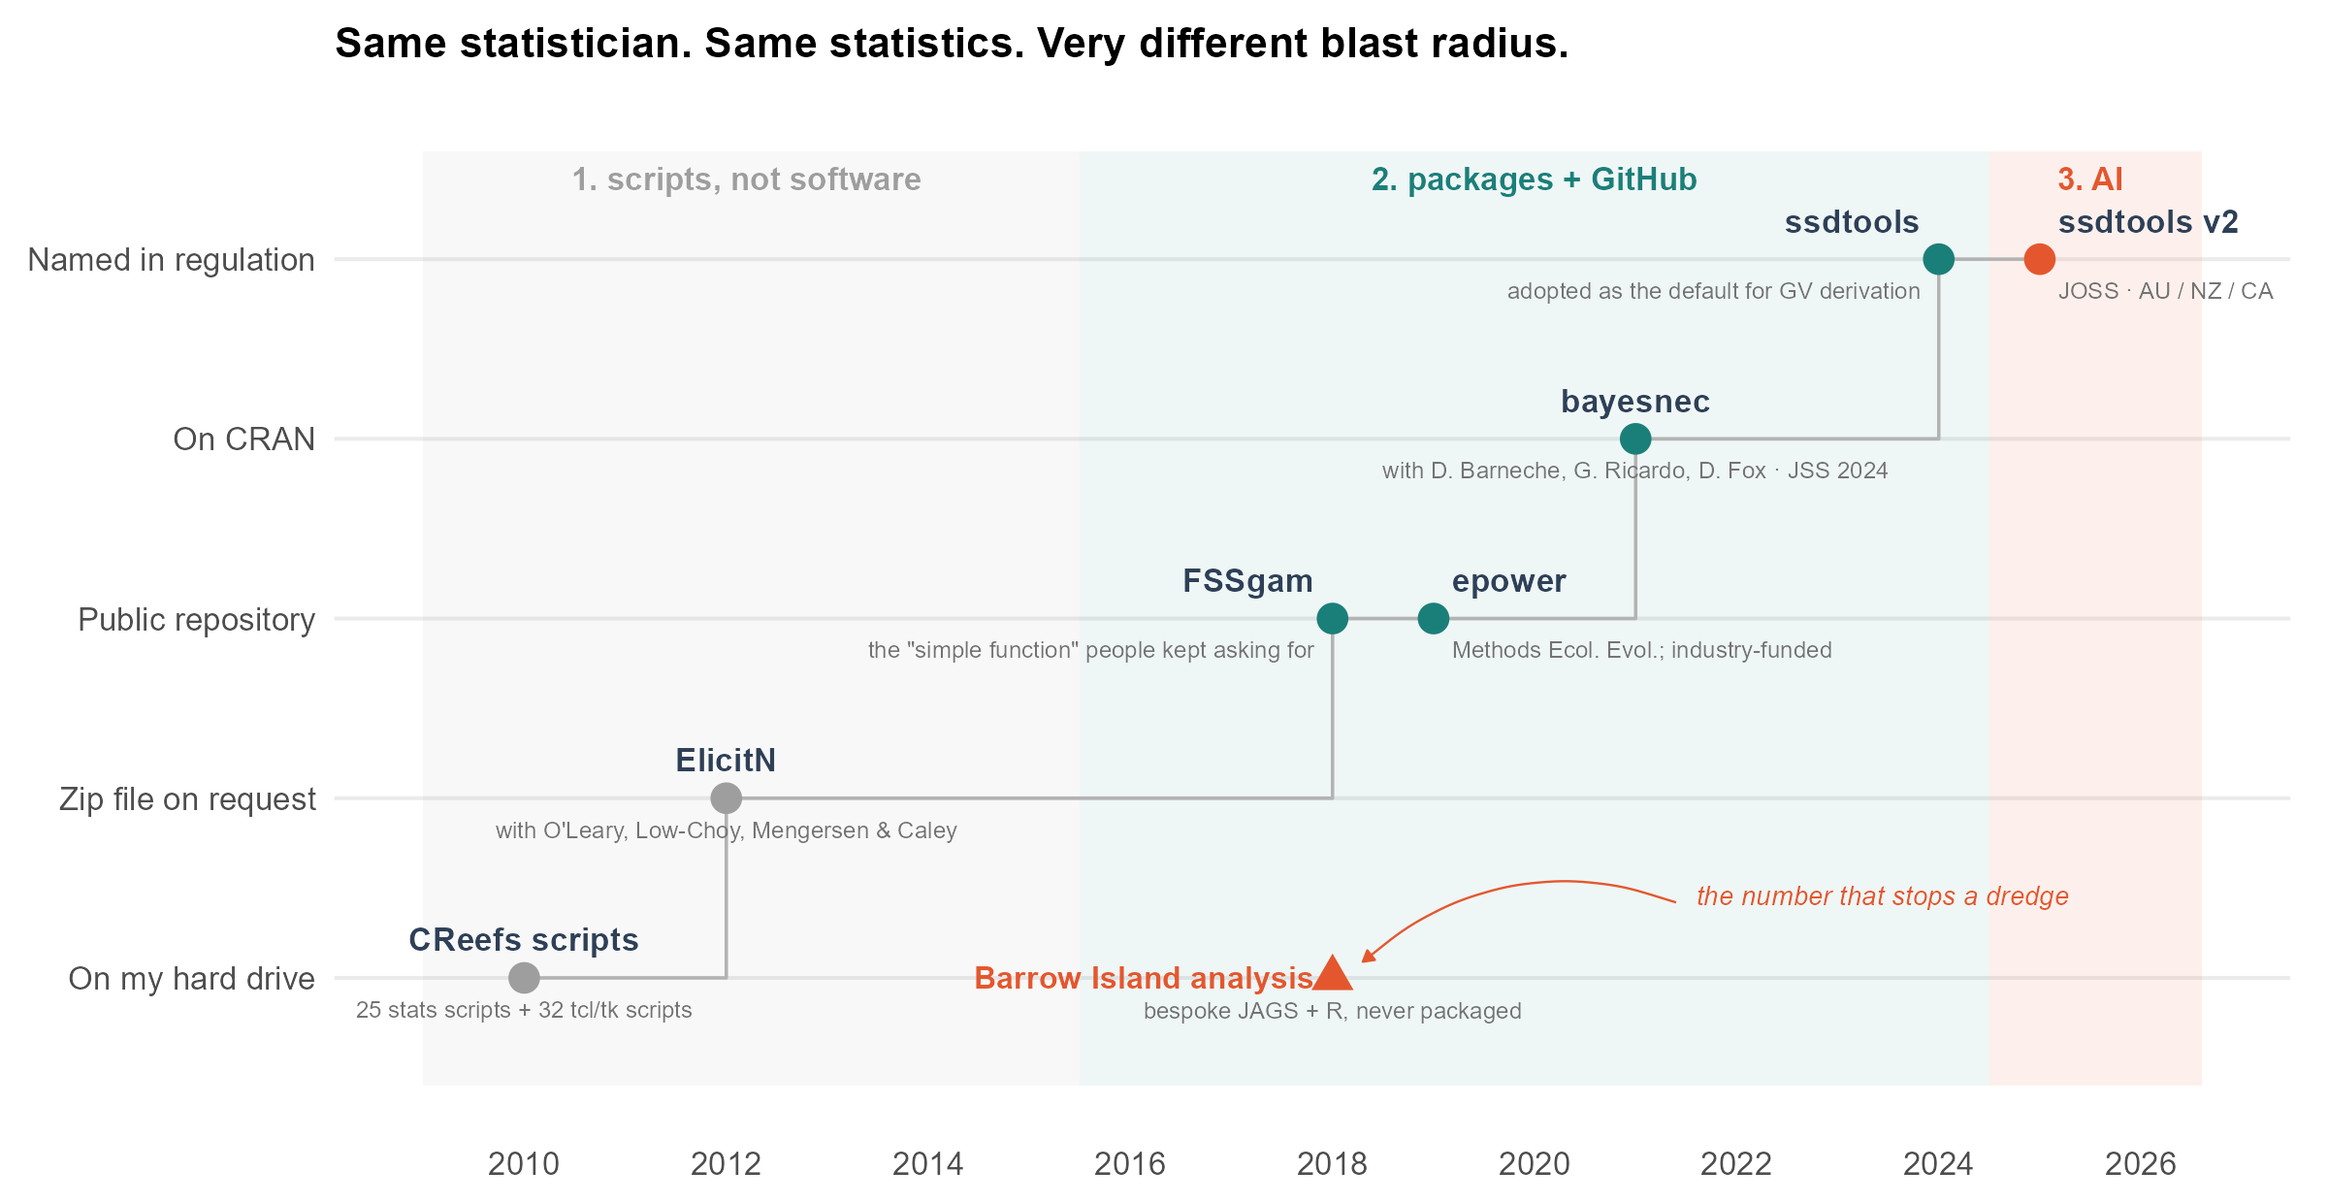
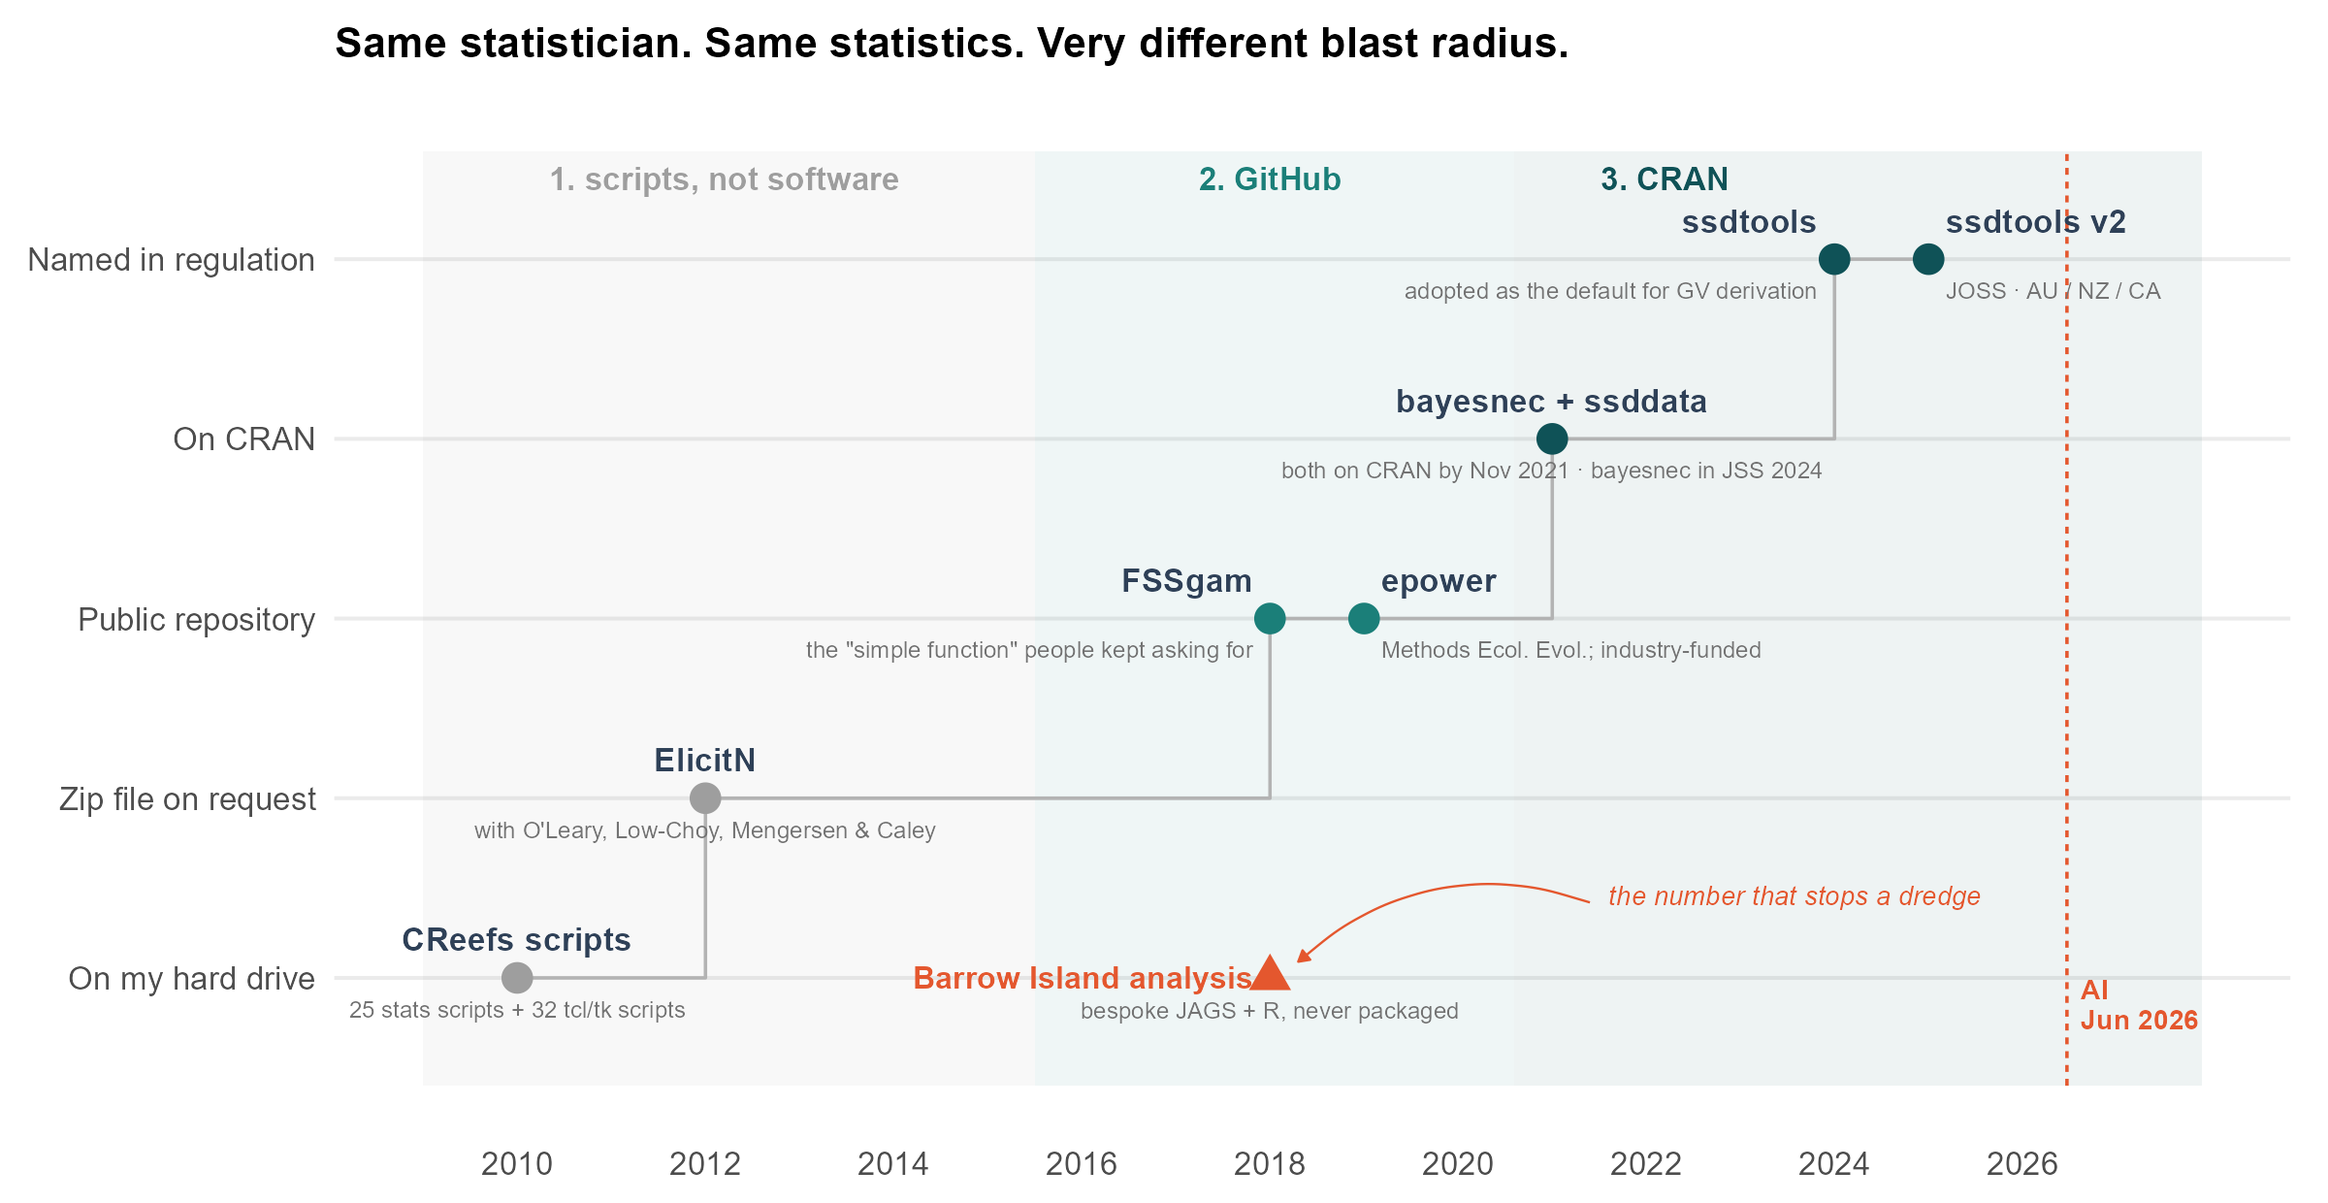
name all three eras, make era three CRAN, prepare repo for public release
Era three was "AI" on the timeline, which collided with the Part one / Part
two framing. The three eras are now about distribution and map onto the
y-axis: scripts, not software -> GitHub -> CRAN. AI becomes a dated marker
rather than a band, which is what it actually is.

Era two and era three are now labelled on their slides, not just era one.
The R CMD check point moves from the GitHub slide to the CRAN slide, because
CRAN submission is when it first got used in anger. ssddata joins the
timeline; its CRAN date (2021-11-05) also verifies the 2021 placement that
was previously a guess.

Slide 1: "the next dredge" - the Pilbara campaign is finished - and
"possibly a lawyer" rather than "eventually".

Public-release prep: the three clip-art images are gone, replaced by a stop
sign and a CONFIDENTIAL stamp drawn in R/figures.R, so the repo carries no
third-party artwork. The source decks, CV, PDFs and the original briefing
note are now gitignored as directories rather than by extension.

diff --git a/notes/slide-outline.md b/notes/slide-outline.md
@@ -54,17 +54,17 @@ one site, one campaign. Slide 7 says this explicitly, and flags forward to Route
 
 | # | Slide | Visual | Beat | Time |
 |---|---|---|---|---|
-| 1 | When a dredge works off the Pilbara coast | `assets/stopsign.png` + punch line | Cold open. *"That number came out of R code that I wrote."* Do **not** explain it yet. | 0:45 |
+| 1 | When the next dredge works off the Pilbara coast | `figures/stop-sign.png` + punch line | Cold open. *"That number came out of R code that I wrote."* Do **not** explain it yet. | 0:45 |
 | 2 | **Divider — Part one: How I got here** | — | Transition. | 0:10 |
 | 3 | Fifteen years, three eras | `journey-timeline.png` | The spine, up front. Introduce yourself here. Point out the orange triangle: slide 1's number, lowest reach on the chart. "We're going to walk left to right." | 0:55 |
 | 4 | Era one: scripts, not software | Two columns, `.arrows` list | ElicitN (2012), **credited to all five authors**: 57 scripts, Tcl/Tk, SourceForge, no tests. The point is that none of the five asked about longevity. | 1:15 |
 | 5 | The science outlived the software | Full-bleed punch line | The lesson. Pause here. | 0:30 |
-| 6 | The data most of you will never see | `assets/confidential.jpg` | Era two opens. White / grey / **black** literature. Barrow Island scale. Ends on *"that dataset is where the number on slide one came from"*. | 1:30 |
+| 6 | Era two: the data most of you will never see | `figures/confidential-stamp.png` | Era two opens. White / grey / **black** literature. Barrow Island scale. Ends on *"that dataset is where the number on slide one came from"*. | 1:30 |
 | 7 | What that data bought: the number from slide one | `roc-thresholds.png` | **Route B, and the payoff for the cold open.** In-situ dose–response + ROC. Fisher et al. 2018 JAE. Flags forward: no SSD here, hold that thought. | 1:15 |
-| 8 | Meanwhile: packages and the discipline they impose | Two columns | Same years, 2018–19. FSSgam, epower. GitHub as delivery, not collaboration. `R CMD check` as reviewer. | 1:25 |
+| 8 | Era two, meanwhile: onto GitHub | Two columns | Same years, 2018–19. FSSgam, epower. GitHub as delivery, not collaboration. `R CMD check` as reviewer. | 1:25 |
 | 9 | The other kind of number | `ssd-model-average.png` | **Route A enters.** ~2020. The discharge licence framing + the blood-alcohol analogy. National, not site-specific. | 1:00 |
 | 10 | Which curve, though? | `ssd-model-spread.png` | Six distributions, six legal limits. The problem that pulled me into `ssdtools`. Note the jump in scale from slide 7. | 1:00 |
-| 11 | One level down: what is a "no effect"? | `no-effect-estimates.png` | Four "no effects". bayesnec, NSEC. Software made the method possible, not the reverse. | 1:35 |
+| 11 | Era three: onto CRAN | `no-effect-estimates.png` | bayesnec + ssddata to CRAN, Nov 2021. **First real use of `R CMD check`** — moved here from slide 8. Then four "no effects"; software made the method possible, not the reverse. | 1:50 |
 | 12 | `ssdtools`: the part I did not expect | Two columns | AU–CA joint evaluation vs Burrlioz. Benchmarks + simulation. Adopted. | 1:25 |
 | 13 | You cannot get three regulators to agree on a black box | Full-bleed punch line | **The keystone slide**, closing act two. Open source as governance mechanism. Shiny as the last mile. | 1:10 |
 | 14 | **Divider — Part two: And then the AI arrived** | — | Transition. | 0:05 |
@@ -77,22 +77,24 @@ one site, one campaign. Slide 7 says this explicitly, and flags forward to Route
 | 21 | Three things I'd tell 2012 me | Numbered `.arrows` + punch | The take-homes. Slow down. | 1:10 |
 | 22 | Thank you | Contacts + repos | Links, acknowledgements, invitation to question. | 0:25 |
 
-**Total ≈ 21 min 55 s** — over a 20-minute slot. See the two cuts below.
+**Total ≈ 22 min 10 s** — over a 20-minute slot. See the two cuts below.
 
-### The 20-minute cut (lose 2 min)
+### The 20-minute cut (lose 2 min 10 s)
 
 - Drop slide 20, *Provenance, out loud* (0:55) — fold one clause into slide 19.
 - Trim slide 4, *Era one*, 1:15 → 0:40 (0:35).
-- Trim slide 6, *Black data*, 1:30 → 1:00 (0:30).
+- Trim slide 6, *Era two: black data*, 1:30 → 1:00 (0:30).
+- Trim slide 11, *Era three*, 1:50 → 1:35 (0:15) — keep CRAN and `R CMD check`, name NEC and
+  EC10 only.
 
-Lands at ≈19:55. This is the version to rehearse first.
+Lands at ≈20:00. This is the version to rehearse first.
 
 ---
 
 ## The 15-minute cut
 
-Need to lose **6 min 55 s**. Do it by removing three slides and trimming eleven, not by
-talking faster. The plan below saves 6 min 50 s, landing at ≈15:05.
+Need to lose **7 min 10 s**. Do it by removing three slides and trimming eleven, not by
+talking faster. The plan below saves 7 min 5 s, landing at ≈15:05.
 
 Slide numbers are the 22-slide running order above.
 
@@ -124,7 +126,7 @@ not possible here. This is the main cost of the chronological order.
 | 7 Dredging thresholds | 1:15 | 0:55 | 0:20 | Keep the ROC trade-off and the no-SSD flag; drop the posterior-probability construction. |
 | 8 Packages | 1:25 | 0:55 | 0:30 | Drop the FSSgam origin anecdote. Keep GitHub-as-delivery and `R CMD check`. |
 | 9 The other kind of number | 1:00 | 0:50 | 0:10 | Keep the blood-alcohol line; drop the "not derived per site" aside. |
-| 11 "No effect" | 1:35 | 1:00 | 0:35 | Name NEC and EC10 only; skip NOEC and NSEC derivation. Keep the causation point. |
+| 11 Era three | 1:50 | 1:00 | 0:50 | Keep "CRAN made me run ``R CMD check``" and name NEC and EC10 only; skip NOEC, NSEC and the causation point. |
 | 12 `ssdtools` | 1:25 | 1:10 | 0:15 | Drop the collaborator list; it's on the slide. |
 | 16 Speed-up | 1:25 | 1:10 | 0:15 | Give the three numbers and the method in one breath; drop the list of skipped tasks. |
 | 18 What changed | 1:00 | 0:50 | 0:10 | Read the columns, don't gloss each line. |

diff --git a/notes/speaker-notes.md b/notes/speaker-notes.md
@@ -22,17 +22,17 @@ For the running order, timings and the 15-minute cut, see
 
 <!-- BEGIN GENERATED -->
 
-## 1 · When a dredge works off the Pilbara coast — 45 s
+## 1 · When the next dredge works off the Pilbara coast — 45 s
 
 > Open cold. Don't introduce yourself yet — earn the next 19 minutes first.
 
-When a dredge works off the Pilbara coast in WA, it is running against a number. If
-turbidity at the compliance monitoring site crosses that number, the vessel stops. That
+When the next dredge works off the Pilbara coast in WA, it will be running against a number.
+If turbidity at the compliance monitoring site crosses that number, the vessel stops. That
 costs a proponent a very large amount of money per day. Get the number wrong in the other
 direction and you lose a coral reef.
 
-Somebody has to be able to defend that number — to the regulator, to the proponent, and
-eventually, possibly, to a court.
+Somebody has to be able to defend that number — to the regulator, to the proponent, and if
+things go badly, to a court.
 
 That number came out of R code that I wrote.
 
@@ -118,7 +118,7 @@ software would still run in 2017.
 
 ---
 
-## 6 · The data most of you will never see — 90 s
+## 6 · Era two: the data most of you will never see — 90 s
 
 Era two, and the thing that changed everything for me: I stopped writing tools for
 researchers and started working with industry data.
@@ -176,7 +176,7 @@ think.
 
 ---
 
-## 8 · Meanwhile: packages, and the discipline they impose — 85 s
+## 8 · Era two, meanwhile: onto GitHub — 85 s
 
 Running alongside all of that — same years, 2018, 2019 — I finally started making packages.
 And it began, honestly, with a filing problem.
@@ -190,10 +190,8 @@ collaboration. I went because I needed a way to send someone a thing that worked
 could then fix without re-emailing a zip file. The collaboration came later, and it came
 as a surprise.
 
-And `R CMD check` — I want to be sincere about this — is the most patient and least
-political reviewer I have ever worked with. It never once told me my approach was
-interesting but perhaps better suited to a specialist journal. It just told me,
-consistently, exactly what was wrong.
+But be clear about what era two was and wasn't. It solved *distribution*. It did not make me
+disciplined. There were still no tests, and nothing had been near CRAN.
 
 ---
 
@@ -242,27 +240,38 @@ campaign at one site. This one applies to every discharge in the country.
 
 ---
 
-## 11 · One level down: what is a "no effect"? — 95 s
+## 11 · Era three: onto CRAN — 110 s
 
-And then the same shape of problem, one level down.
+Era three is CRAN, and it starts in 2021 with two packages: `bayesnec`, and `ssddata`, which
+is just the datasets and has no paper at all.
 
-Remember each dot on that SSD is one species' "no effect" estimate. It turns out there are
-at least four things the field calls "no effect", and only one of them actually means it.
+And I'll tell you what era three actually taught me, because it isn't what I expected. It's
+the first time I ran `R CMD check` in anger. Not because I'd become disciplined — because
+CRAN wouldn't take the package until I did.
 
-The NEC is a genuine threshold — a parameter in a model that says below here, nothing
-happens. The NOEC is the highest concentration somebody happened to test that wasn't
-statistically distinguishable from the control — which makes it a fact about your
-experimental design, not about the organism. And the EC10 is, by definition, a 10% effect.
-We are calling a 10% effect "no effect".
+`R CMD check` is the most patient and least political reviewer I have ever worked with. It
+never once told me my approach was interesting but might be better suited to a specialist
+journal. It just told me, consistently and immediately, exactly what was wrong. Getting to
+CRAN was the first time anything external had ever held my code to a standard.
 
-Whichever one your software computes becomes the input to the SSD, and therefore becomes
-the guideline value.
+*(beat)*
 
-So we built `bayesnec` — Bayesian concentration-response modelling, model averaging again,
-this time over curve shapes rather than distributions. And along the way David Fox and I
-defined a new statistic, the NSEC, because having the software made it testable. That's
-the direction of causation I want to flag: the software didn't implement the method. The
-software made the method possible.
+Now, what `bayesnec` is for. Every dot on that SSD is one species' "no effect" estimate — and
+it turns out there are at least four things this field calls "no effect", and only one of them
+means it.
+
+The NEC is a genuine threshold: below here, nothing happens. The NOEC is the highest
+concentration somebody happened to test that wasn't statistically distinguishable from the
+control — a fact about your experimental design, not about the organism. And the EC10 is, by
+definition, a ten per cent effect. We are calling a ten per cent effect "no effect".
+
+Whichever one your software computes becomes the input to the SSD, and therefore the
+guideline value.
+
+So `bayesnec` does Bayesian concentration-response modelling — model averaging again, this
+time over curve shapes. And along the way David Fox and I defined a new statistic, the NSEC,
+because having the software made it testable. That's the direction of causation I want to
+flag: the software didn't implement the method. The software made the method possible.
 
 ---
 

diff --git a/CLAUDE.md b/CLAUDE.md
@@ -48,7 +48,7 @@ guideline values. `notes/slide-outline.md` §"Two routes" sets them side by side
 | Speaker notes | **Source of truth** is the `::: {.notes}` blocks in `index.qmd`. `notes/speaker-notes.md` is *generated* from them by `R/build-speaker-notes.R` — never hand-edit the region between the `BEGIN/END GENERATED` markers |
 | Stage directions | Inside a notes block, a line starting `> ` is a direction (do this), not narration (say this) |
 | Figures | Generated by `R/figures.R` into `talk/figures/`; **never hand-edit `talk/figures/`** |
-| Static assets | `assets/` — images carried over from earlier decks |
+| Static assets | None. Every image in the deck is generated by `R/figures.R`, so the repo carries no third-party artwork |
 | Prompt log | `prompts/rexchange-perth-2026-talk.md`, append only |
 | Quarto | `C:/Program Files/Positron/resources/app/quarto/bin/quarto.exe` (not on PATH) |
 | R | `C:/Program Files/R/R-4.5.1/bin/Rscript.exe` (not on PATH) |
@@ -106,9 +106,14 @@ speaker's own term). Nothing in this repo may contain raw industry data, client-
 monitoring results, or unpublished figures from commercial reports. Only use results that
 are already in the public record via the listed publications.
 
-The repo is **private**. Publisher PDFs (`Relevant_publication_history_pdfs/`) and the
-large source `.pptx` files are `.gitignore`d — for copyright and repo size. Do not commit
-them, and do not propose making the repo public without asking.
+**The repo is public.** That raises the bar on everything committed here:
+
+- `Relevant_publication_history_pdfs/` and `old_talks_and_background/` are `.gitignore`d —
+  publisher copyright, third-party clip art, CV and bio. Never commit them.
+- **No third-party images.** Every graphic is generated by `R/figures.R`. If you need a new
+  one, draw it or use something you can point at a licence for.
+- Only results already in the public record via the listed publications.
+- `prompts/` is public too. Keep the logs free of client names and unpublished results.
 
 ---
 

diff --git a/notes/visuals-brief.md b/notes/visuals-brief.md
@@ -108,16 +108,29 @@ is for.
 
 ---
 
-## Static assets
+## Static assets — there are none
 
-Carried over from earlier decks, in `assets/`:
+Every image in the deck is generated by `R/figures.R`. The earlier decks used clip art for
+the stop sign and the CONFIDENTIAL stamp; those were third-party images of unknown
+provenance, which is fine on a slide you present once and a problem in a public repository.
+They are now drawn:
 
 | File | Slide | Use |
 |---|---|---|
-| `stopsign.png` | 1 | The cold open. Small, right column — it's punctuation, not decoration. |
-| `confidential.jpg` | 9 | The black-literature slide. The whole visual argument in one stamp. |
-| — | 10 | **Worth adding:** a map or photo of the Barrow Island monitoring layout would help slide 10 land, but check the confidentiality position on any operational imagery first. |
-| `tripple_planetary_crisis.png` | *unused* | Available if you ever need to open on the global pollution framing instead — but that's the ecotox opening, and this talk deliberately opens on a single dredge instead. |
+| `stop-sign.png` | 1 | The cold open. Small, right column — it's punctuation, not decoration. |
+| `confidential-stamp.png` | 6 | The black-literature slide. The whole visual argument in one stamp. |
+
+Note that `ggplot2`'s text `size` is millimetres of font height and does **not** scale with
+the figure, so if you change the `width`/`height` passed to `save_fig()` for either of these,
+retune the `size` values or the text will overflow the shape.
+
+**Worth adding on slide 7:** a map or photo of the Barrow Island monitoring layout. Check the
+confidentiality and licence position on any operational imagery first — and remember the repo
+is public, so it would need to be yours or openly licensed.
+
+The UNEP "triple planetary crisis" graphic from the earlier deck is **not** used and should
+not be added — it is third-party and the talk deliberately opens on a single dredge rather
+than the global framing.
 
 ---
 

diff --git a/notes/source-synthesis.md b/notes/source-synthesis.md
@@ -16,7 +16,7 @@ every claim in `talk/index.qmd` should be traceable to something here.
 | `Abstract.docx` | Short abstract for the AIMS 50th talk | Preferred framing sentence (see below) |
 | `Rebecca_Fisher_bio_WQ.docx` | Speaker bio | Bio for the abstract submission |
 | `Cirriculum Vitae_RFisher2025.docx` | Full CV | Software list, publication chronology, employment chronology |
-| `tripple_planetary_crisis.png`, `confidential.jpg`, `stopsign.png` | Reusable image assets | Copied to `assets/` |
+| `tripple_planetary_crisis.png`, `confidential.jpg`, `stopsign.png` | Third-party clip art | **Not reused** — redrawn in `R/figures.R` so the repo carries no borrowed images |
 
 ### `Relevant_publication_history_pdfs/` (19 PDFs)
 
